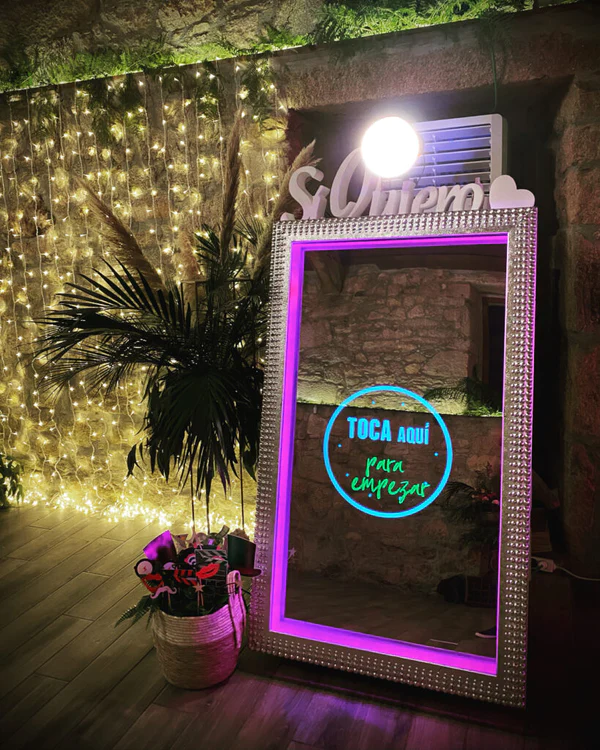
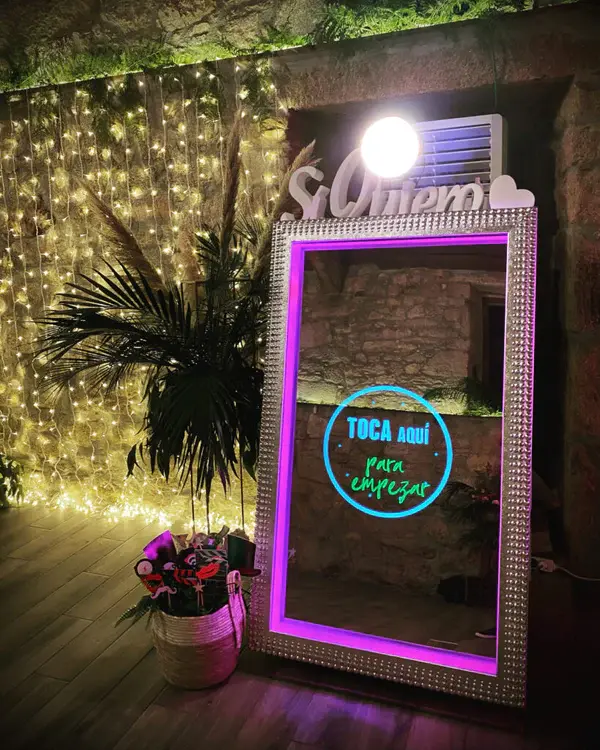
All photos omptimized

Changed region(s): [[0.57, 0.6133, 0.72, 0.6747], [0.69, 0.552, 0.72, 0.5827], [0.6, 0.552, 0.63, 0.5827]]

diff --git a/src/pages/OtrosProductos.jsx b/src/pages/OtrosProductos.jsx
@@ -37,7 +37,7 @@ export const OtrosProductos = () => {
                 {workingMode === 'PC' ? (
                     <div className="service4Container">
                         <div className="service4ContentContainer">
-                            <img src="src/assets/img/servicios/ringRing/audiolibro.jpg" alt="InstruccionesRingRing" />
+                            <img src="src/assets/img/servicios/ringRing/audiolibro.webp" alt="InstruccionesRingRing" />
                             <div className="service4DescriptionContainer">
                                 <h2>Ring Ring Experience</h2> 
                                 <h3> ¡Frase Guay &nbsp;<span>PC/Tablet!</span></h3> 
@@ -61,7 +61,7 @@ export const OtrosProductos = () => {
                         <h2>Ring Ring Experience</h2>
                         <h3>Frase Guay Tablet</h3>
                         <div className="service4ContentContainer">
-                            <img src="src/assets/img/servicios/ringRing/audiolibro.jpg" alt="InstruccionesRingRing" />
+                            <img src="src/assets/img/servicios/ringRing/audiolibro.webp" alt="InstruccionesRingRing" />
                             <div className="service4DescriptionContainer">
                                     <p>
                                 Lorem ipsum dolor sit amet consectetur adipisicing elit. Sit qui nam dicta aspernatur non expedita iusto assumenda minus harum porro ullam similique voluptas neque autem modi ipsum, quisquam dolorum officiis?
@@ -83,8 +83,8 @@ export const OtrosProductos = () => {
             {/* InfiniteLoop */}
             <section>
                     <div className="logo">
-                    <InfiniteLoop urlImg="src/assets/img/Extra/show.png" nameImg="LogoVisualShowSlide" equal={true}/>
-                    <InfiniteLoop urlImg="src/assets/img/Extra/show.png" nameImg="LogoVisualShowSlide" equal={true}/>
+                    <InfiniteLoop urlImg="src/assets/img/Extra/show.webp" nameImg="LogoVisualShowSlide" equal={true}/>
+                    <InfiniteLoop urlImg="src/assets/img/Extra/show.webp" nameImg="LogoVisualShowSlide" equal={true}/>
                     </div>
                     </section>
             {/* !Este section es de products */}
@@ -98,7 +98,7 @@ export const OtrosProductos = () => {
                             tittle='Letras Love'
                             description=''
                             msg="https://wa.me/34653781239?text=Quiero%20más%20información%20sobre%20las%20Letras%20Love!"
-                            imgUrl='src/assets/img/servicios/otrosProductos/letrasLove.jpeg'
+                            imgUrl='src/assets/img/servicios/otrosProductos/letrasLove.webp'
                             difBg={false}
                             colorText='var(--accent)'/>
                         <ProductsCard
@@ -106,7 +106,7 @@ export const OtrosProductos = () => {
                             tittle='Neones'
                             description=''
                             msg="https://wa.me/34653781239?text=Quiero%20más%20información%20sobre%20los%20Neones!"
-                            imgUrl='src/assets/img/servicios/otrosProductos/neones.jpeg'
+                            imgUrl='src/assets/img/servicios/otrosProductos/neones.webp'
                             difBg={false}
                             colorText='var(--accent)'/>
                     </div>                    
@@ -124,8 +124,8 @@ export const OtrosProductos = () => {
             {/* InfiniteLoop */}
             <section>
                 <div className="logo">
-                <InfiniteLoop urlImg="src/assets/img/Extra/show.png" nameImg="LogoVisualShowSlide" equal={true}/>
-                <InfiniteLoop urlImg="src/assets/img/Extra/show.png" nameImg="LogoVisualShowSlide" equal={true}/>
+                <InfiniteLoop urlImg="src/assets/img/Extra/show.webp" nameImg="LogoVisualShowSlide" equal={true}/>
+                <InfiniteLoop urlImg="src/assets/img/Extra/show.webp" nameImg="LogoVisualShowSlide" equal={true}/>
                 </div>
             </section>
             {/* !Este section es de contact us */}

diff --git a/src/pages/HomeWebSite.jsx b/src/pages/HomeWebSite.jsx
@@ -140,8 +140,8 @@ useEffect (() => {
         {/* InfiniteLoop */}
         <section>
           <div className="logo">
-            <InfiniteLoop urlImg="src/assets/img/Extra/show.png" nameImg="VisualShow" equal={true}/>
-            <InfiniteLoop urlImg="src/assets/img/Extra/show.png" nameImg="VisualShow" equal={true}/>
+            <InfiniteLoop urlImg="src/assets/img/Extra/show.webp" nameImg="VisualShow" equal={true}/>
+            <InfiniteLoop urlImg="src/assets/img/Extra/show.webp" nameImg="VisualShow" equal={true}/>
           </div>
         </section>
         <section id='magic-mirror'>
@@ -196,7 +196,7 @@ useEffect (() => {
           {workingMode === 'PC' ? (
             <div className="service3Container">
               <div className="service3ContentContainer">  
-                <img src="src/assets/img/servicios/whiteMagicMirror/magicMirrorWhiteBg.jpg" alt="Espejo magico blanco" loading='lazy'/>                      
+                <img src="src/assets/img/servicios/whiteMagicMirror/magicMirrorWhiteBg.webp" alt="Espejo magico blanco" loading='lazy'/>                      
               <div className="service3DescriptionContainer">  
                 <h2>White Magic Mirror</h2>
                 <h3> <span>¡Titulo Guay</span>&nbsp;PC/Tablet!</h3>    
@@ -220,7 +220,7 @@ useEffect (() => {
               <h2>White Magic Mirror</h2>
               <h3> ¡Titulo Guay Para Tablet!</h3>
               <div className="service3ContentContainer">              
-              <img src="src/assets/img/servicios/whiteMagicMirror/magicMirrorWhiteBg.jpg" alt="Espejo magico blanco" loading='lazy'/>
+              <img src="src/assets/img/servicios/whiteMagicMirror/magicMirrorWhiteBg.webp" alt="Espejo magico blanco" loading='lazy'/>
               <div className="service3DescriptionContainer">              
                 <p>
                   Lorem, ipsum dolor sit amet consectetur adipisicing elit. Dignissimos, quidem laudantium doloribus atque totam voluptate, nulla tenetur provident minima natus beatae non, reprehenderit pariatur praesentium! Dolore necessitatibus ab eaque cum!
@@ -242,8 +242,8 @@ useEffect (() => {
         {/* InfiniteLoop */}
         <section>
           <div className="logo">
-            <InfiniteLoop urlImg="src/assets/img/Extra/show.png" nameImg="VisualShow" equal={true}/>
-            <InfiniteLoop urlImg="src/assets/img/Extra/show.png" nameImg="VisualShow" equal={true}/>
+            <InfiniteLoop urlImg="src/assets/img/Extra/show.webp" nameImg="VisualShow" equal={true}/>
+            <InfiniteLoop urlImg="src/assets/img/Extra/show.webp" nameImg="VisualShow" equal={true}/>
           </div>
         </section>
         {/* !Este section es de reviews */}
@@ -292,7 +292,7 @@ useEffect (() => {
         <section id="nosotros">
           <div className="aboutUsContainer">
             <h2>¿ Quienes Somos ?</h2>
-            <img src="src/assets/img/reviews_equipo/navidadDavidIvet.jpg" alt="VisualShow360Team" loading='lazy' />
+            <img src="src/assets/img/reviews_equipo/navidadDavidIvet.webp" alt="VisualShow360Team" loading='lazy' />
             <p>
               Lorem ipsum dolor sit amet consectetur adipisicing elit. Sit qui nam dicta aspernatur non expedita iusto assumenda minus harum porro ullam similique voluptas neque autem modi ipsum, quisquam dolorum officiis?
             </p>

diff --git a/src/components/Footer.jsx b/src/components/Footer.jsx
@@ -61,7 +61,7 @@ useEffect (() => {
           </button>
           </div>
         </div>
-        <img src="src/assets/img/Extra/generalitat.jpg" target="_blank" alt="generalitatImg" loading='lazy' />
+        <img src="src/assets/img/Extra/generalitat.webp" target="_blank" alt="generalitatImg" loading='lazy' />
       </div>
     )
   } else {
@@ -90,7 +90,7 @@ useEffect (() => {
           <NewPage href="/terminos-condiciones" label="Terminos y Condiciones" colorText='var(--secondary)'/>
         </button>
         </div>
-        <img src="src/assets/img/Extra/generalitat.jpg" target="_blank" alt="generalitatImg" loading='lazy' />
+        <img src="src/assets/img/Extra/generalitat.webp" target="_blank" alt="generalitatImg" loading='lazy' />
         <a href="https://www.instagram.com/jordi_code?igsh=MXRvbmtiYmhheHRiZw%3D%3D&utm_source=qr" 
         style={{ fontSize:'.7rem', padding:'10px' }} target="_blank" > Creada y diseñada x Jordi Code</a>
       </div>
